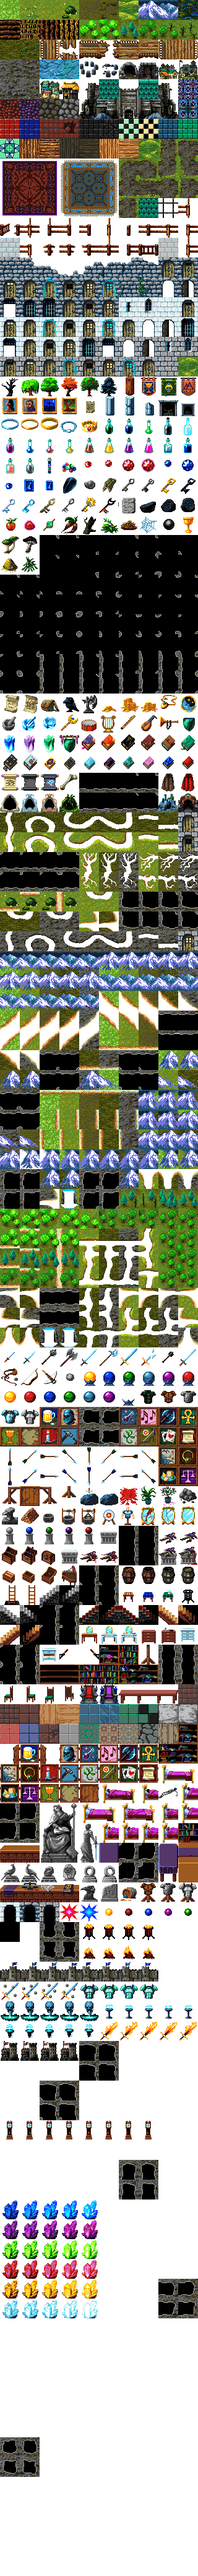
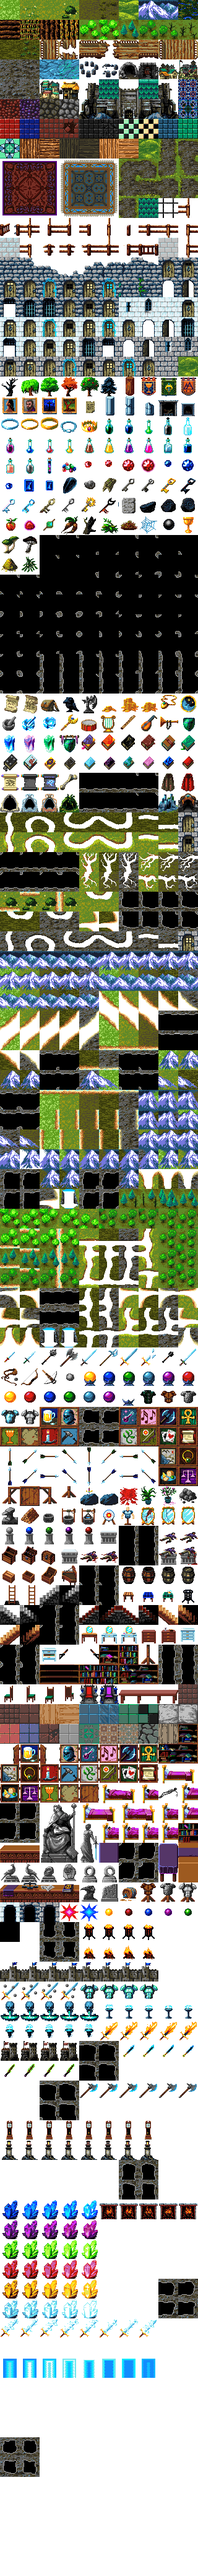
new art

diff --git a/gameObjects.js b/gameObjects.js
@@ -7925,7 +7925,9 @@ HillTowerTile.prototype = new FeatureObject();
 function LighthouseTile() {
   //Graphics Upgraded
   this.name = "Lighthouse";
-  this.graphic = "lighthouse.gif";
+  this.graphic = "static.png";
+  this.spritexoffset = 0;
+  this.spriteyoffset = -108*32;
   this.passable = MOVE_FLY + MOVE_ETHEREAL + MOVE_LEVITATE + MOVE_WALK;
   this.blocklos = 0;
   this.prefix = "a";
@@ -7933,6 +7935,16 @@ function LighthouseTile() {
   this.peerview = "#e0e0e0";
 
   Enterable.call(this, "null", 0, 0);
+
+  ManualAnimation.call(this, { 
+    animstart: 0,
+    animlength: 8,
+    animstyle: "cycle",
+    allowrepeat: 0,
+    framedurationmin: 200,
+    framedurationmax: 200,
+    startframe: "start"
+  });
 }
 LighthouseTile.prototype = new FeatureObject();
 
@@ -9427,7 +9439,9 @@ SpitTile.prototype = new FeatureObject();
 function FireplaceTile() {
   //Graphics Upgraded
 	this.name = "Fireplace";
-	this.graphic = "largefireplace.gif";
+  this.graphic = "static.gif";
+  this.spritexoffset = -5*32;
+  this.spriteyoffset = -111*32;
 	this.passable = MOVE_ETHEREAL + MOVE_LEVITATE + MOVE_WALK;
 	this.blocklos = 2;
   this.prefix = "a";
@@ -9439,6 +9453,16 @@ function FireplaceTile() {
 	
 	LightEmitting.call(this, 2);
 	HasAmbientNoise.call(this,"sfx_fire_crackle",1.5);
+
+  ManualAnimation.call(this, { 
+    animstart: -5*32,
+    animlength: 5,
+    animstyle: "random",
+    allowrepeat: 0,
+    framedurationmin: 150,
+    framedurationmax: 170,
+    startframe: "random"
+  });
 }
 FireplaceTile.prototype = new FeatureObject();
 
@@ -21106,7 +21130,9 @@ function WandTile() {
   //Graphics Upgraded
 	this.name = "Wand";
 	this.damage = "4d12+0";
-  this.graphic = "magicwand.gif";
+  this.graphic = "static.png";
+  this.spritexoffset = -6*32;
+  this.spriteyoffset = -103*32;
 	this.passable = MOVE_FLY + MOVE_ETHEREAL + MOVE_LEVITATE + MOVE_WALK;
 	this.desc = "magic wand";
 	this.prefix = "a";
@@ -21114,6 +21140,16 @@ function WandTile() {
   this.ammoyoffset = "-128";
   this.attackSound = "sfx_wand";
   this.longdesc = "A wand that channels thunder. In your hands, it does %ave% damage on average.";
+ 
+  ManualAnimation.call(this, { 
+    animstart: -6*32,
+    animlength: 4,
+    animstyle: "random",
+    allowrepeat: 0,
+    framedurationmin: 150,
+    framedurationmax: 170,
+    startframe: "random"
+  });
 }
 WandTile.prototype = new MissileWeaponObject();
 
@@ -21121,7 +21157,9 @@ function MagicAxeTile() {
   //Graphics Upgraded
 	this.name = "MagicAxe";
 	this.damage = "4d12+12";
-  this.graphic = "magicaxe.gif";
+  this.graphic = "static.png";
+  this.spritexoffset = -4*32;
+  this.spriteyoffset = -105*32;
 	this.passable = MOVE_FLY + MOVE_ETHEREAL + MOVE_LEVITATE + MOVE_WALK;
 	this.dexReq = 18;
 	this.desc = "magic axe";
@@ -21132,6 +21170,16 @@ function MagicAxeTile() {
   this.ammoReturn = 1;
   this.attackSound = "sfx_magic_axe";
   this.longdesc = "A magic throwing axe. It requires a Dexterity of 18 to use. In your hands, it does %ave% damage on average.";
+
+  ManualAnimation.call(this, { 
+    animstart: -4*32,
+    animlength: 5,
+    animstyle: "cycle",
+    allowrepeat: 0,
+    framedurationmin: 100,
+    framedurationmax: 100,
+    startframe: "start"
+  });
 }
 MagicAxeTile.prototype = new MissileWeaponObject();
 
